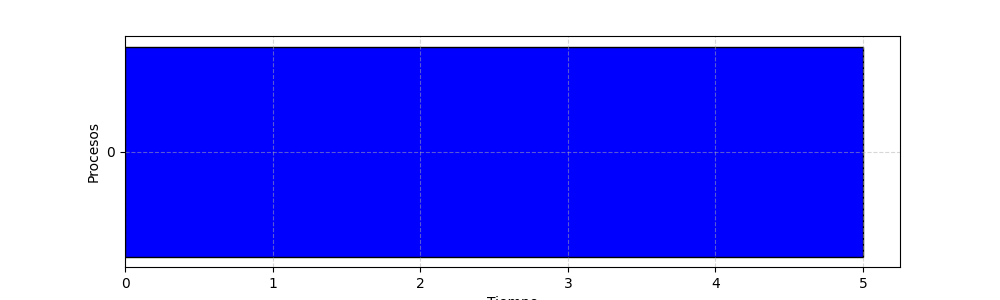
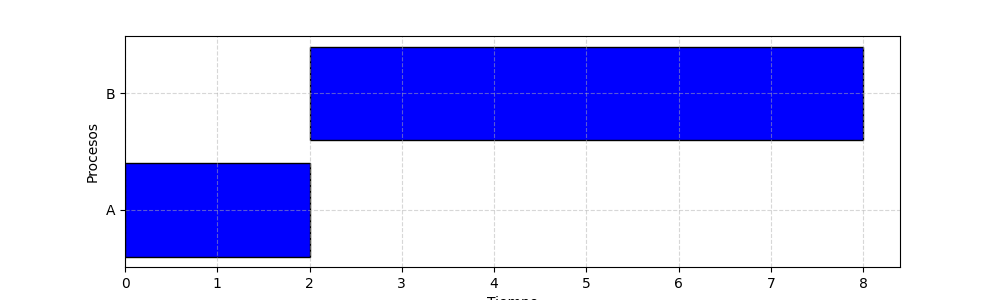
Cambio en prioridad

diff --git a/static/script.js b/static/script.js
@@ -23,7 +23,7 @@ document.addEventListener("DOMContentLoaded", function () {
             ejecutarSimulacion();
         });
     } else {
-        console.error("❌ ERROR: No se encontró #scheduler-form en el DOM");
+        console.error(" ERROR: No se encontró #scheduler-form en el DOM");
     }
 });
 
@@ -62,7 +62,9 @@ function ejecutarSimulacion() {
     .then(data => {
         let img = document.getElementById("ganttChart");
         let timestamp = new Date().getTime(); 
+        img.src = '';
         img.src = data.image_path + "?t=" + timestamp;
+        
         img.style.display = "block";
 
         let resultsDiv = document.getElementById("results");

diff --git a/app.py b/app.py
@@ -3,6 +3,7 @@ matplotlib.use('Agg')  # Evita errores de GUI
 import matplotlib.pyplot as plt
 import numpy as np
 import os
+import sys
 from flask import Flask, request, jsonify, render_template
 
 app = Flask(__name__)
@@ -27,26 +28,37 @@ def simulate_fifo(processes):
     return bars, waiting_times, turnaround_times, avg_waiting_time, avg_turnaround_time
 
 def simulate_sjf(processes):
-    processes.sort(key=lambda p: p["arrival"])
+    processes.sort(key=lambda p: p["arrival"])  # Ordenar por tiempo de llegada
     n = len(processes)
     current_time = 0
     bars = []
     waiting_times = {}
     turnaround_times = {}
-    processes_copy = processes.copy()
+    remaining_processes = processes.copy()
 
-    while processes_copy:
-        available = [p for p in processes_copy if p["arrival"] <= current_time]
+    while remaining_processes:
+        # Filtrar procesos disponibles
+        available = [p for p in remaining_processes if p["arrival"] <= current_time]
+
+        # Si no hay procesos listos, avanzar el tiempo al siguiente proceso más cercano
         if not available:
-            current_time = min(p["arrival"] for p in processes_copy)
-            available = [p for p in processes_copy if p["arrival"] <= current_time]
+            current_time = min(p["arrival"] for p in remaining_processes)
+            available = [p for p in remaining_processes if p["arrival"] <= current_time]
+
+        # Elegir el proceso con menor ráfaga de CPU
         p = min(available, key=lambda p: p["burst"])
-        processes_copy.remove(p)
+        remaining_processes.remove(p)
+
+        # Determinar inicio y fin del proceso en el diagrama de Gantt
         start = max(current_time, p["arrival"])
         end = start + p["burst"]
         bars.append((p["id"], start, end - start))
+
+        # Calcular tiempos de espera y retorno
         waiting_times[p["id"]] = start - p["arrival"]
         turnaround_times[p["id"]] = end - p["arrival"]
+
+        # Actualizar tiempo actual
         current_time = end
 
     avg_waiting_time = sum(waiting_times.values()) / n
@@ -100,6 +112,12 @@ def simulate():
         else:
             return jsonify({"error": f"Algoritmo no reconocido: {algorithm}"}), 400
 
+        if not bars:
+            print("No se encontraron procesos")
+        else:
+            print("bars contiene datos")
+        sys.stdout.flush()
+
         fig, ax = plt.subplots(figsize=(10, 3))
         labels = []
         for i, (pid, start, duration) in enumerate(bars):
@@ -113,7 +131,14 @@ def simulate():
 
         os.makedirs("static", exist_ok=True)
         image_path = "static/gantt_chart.png"
+        if os.path.exists(image_path):
+            os.remove(image_path)
+            print("Se ha eliminado el archivo anterior")
+            sys.stdout.flush()
+
         plt.savefig(image_path)
+        print("Gantt chart guardado en")
+        sys.stdout.flush()
         plt.close(fig)
 
         return jsonify({
@@ -125,7 +150,10 @@ def simulate():
         })
     
     except Exception as e:
+        print("Error:", e)
+        sys.stdout.flush()
         return jsonify({"error": str(e)}), 500
+
 
 if __name__ == "__main__":
     app.run(debug=True)
